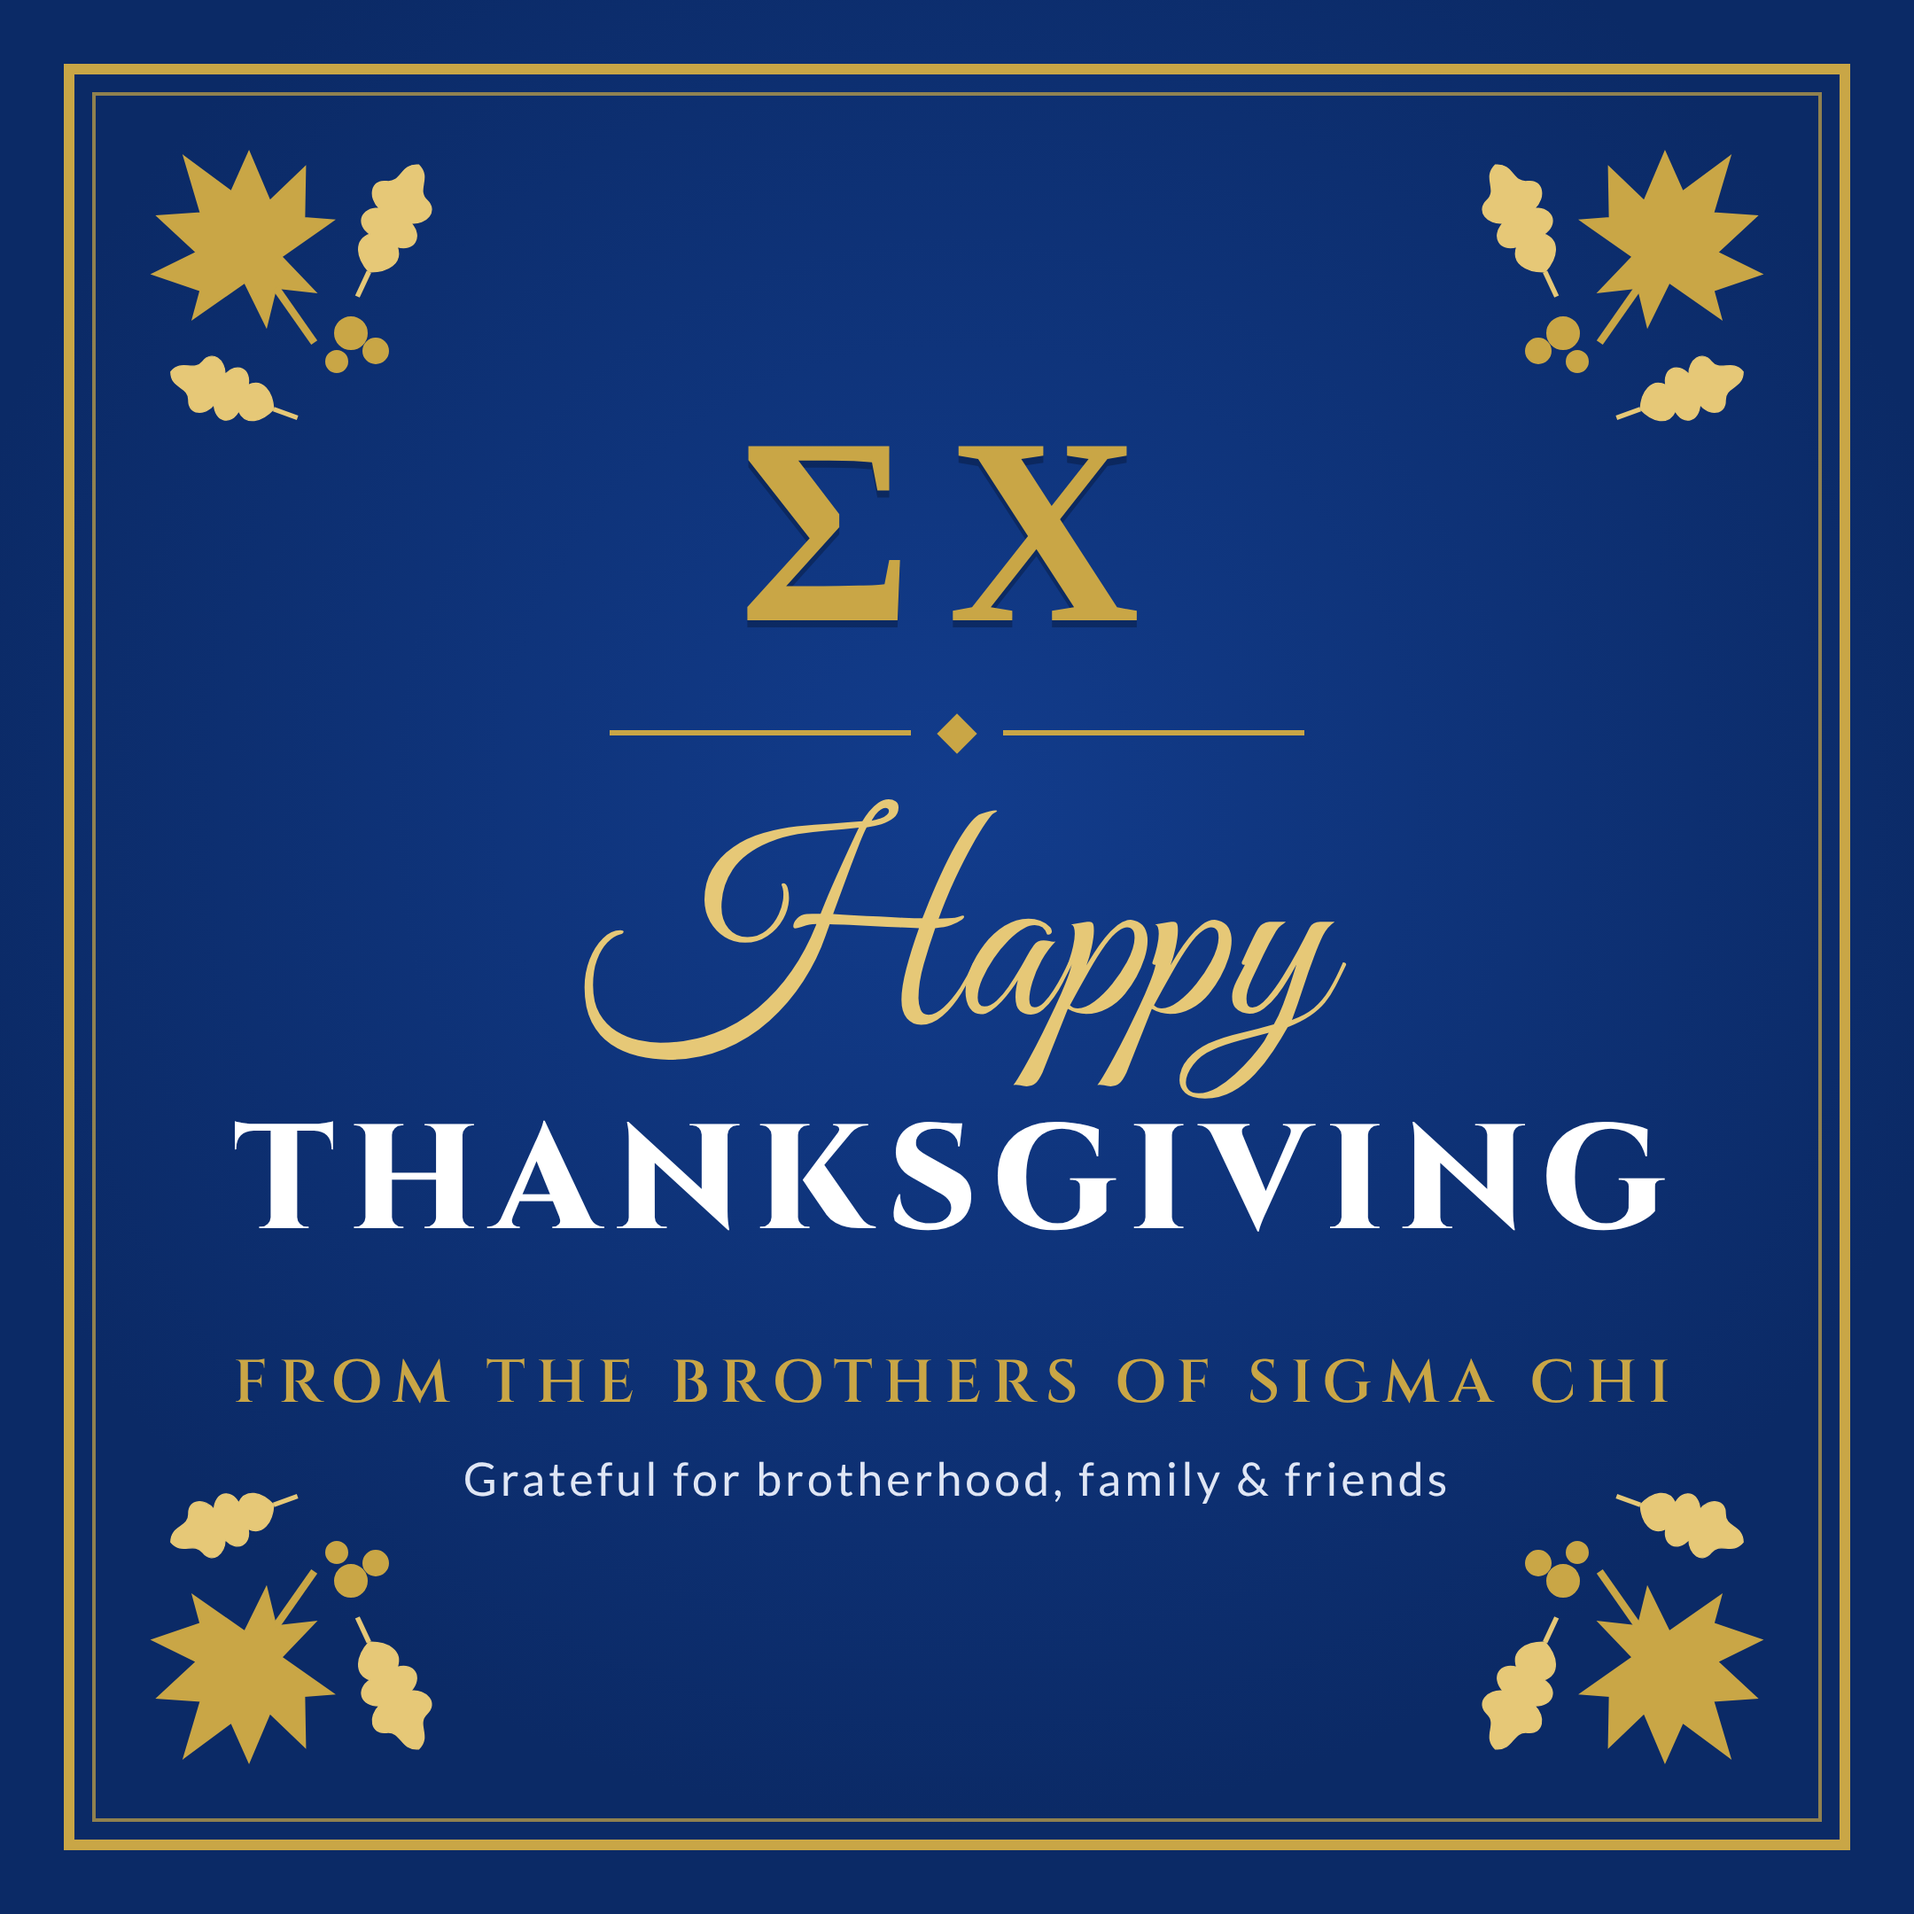
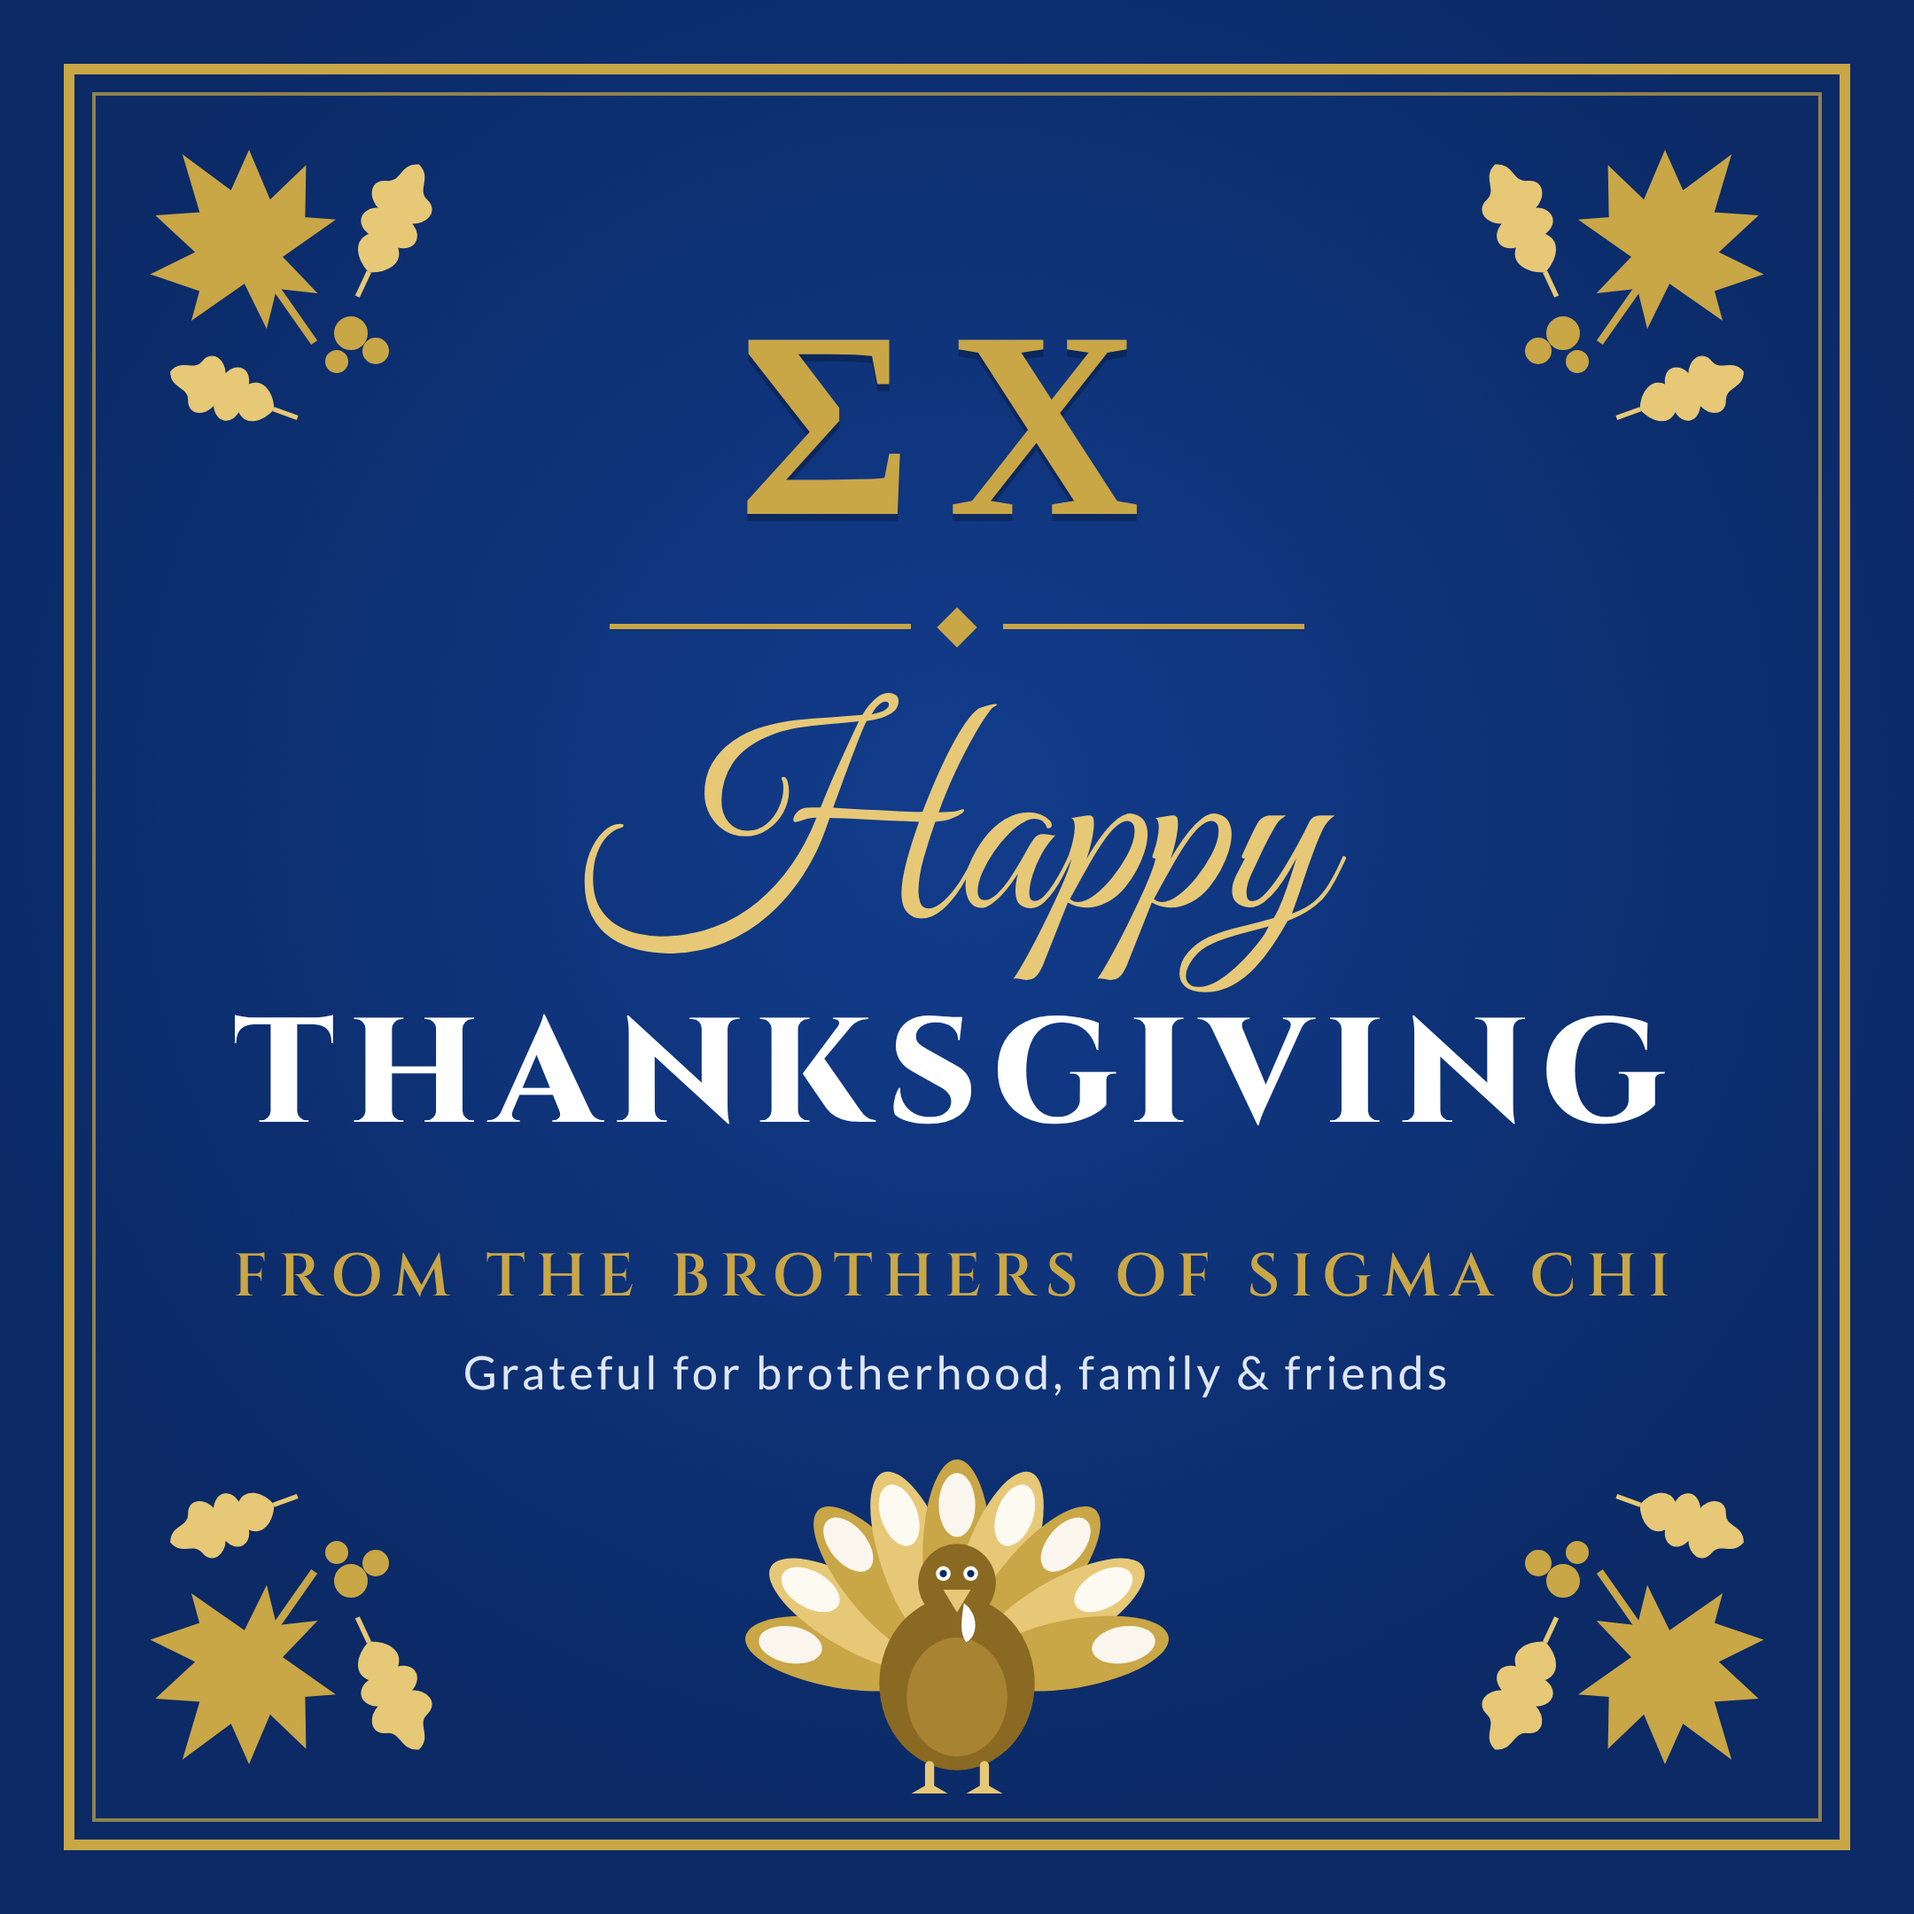
Add turkey to Thanksgiving post
Claude-Session: https://claude.ai/code/session_017HSKiQqvArLoh59CgCQpqT

diff --git a/thanksgiving/post.html b/thanksgiving/post.html
@@ -6,7 +6,7 @@
 body{width:1080px;height:1080px;background:radial-gradient(circle at 50% 42%,var(--blue2),var(--blue) 70%);font-family:Lato,sans-serif;color:var(--gold);overflow:hidden;position:relative}
 .frame{position:absolute;inset:36px;border:6px solid var(--gold);}
 .frame2{position:absolute;inset:52px;border:2px solid var(--gold);opacity:.7}
-.c{position:absolute;inset:0;display:flex;flex-direction:column;align-items:center;justify-content:center;text-align:center}
+.c{position:absolute;inset:0 0 120px 0;display:flex;flex-direction:column;align-items:center;justify-content:center;text-align:center}
 .greek{font-family:Cinzel,serif;font-weight:800;font-size:150px;letter-spacing:20px;color:var(--gold);line-height:1;text-shadow:0 4px 0 rgba(0,0,0,.25)}
 .rule{display:flex;align-items:center;gap:18px;margin:26px 0 34px}
 .rule span{width:170px;height:3px;background:var(--gold)}
@@ -17,7 +17,25 @@ body{width:1080px;height:1080px;background:radial-gradient(circle at 50% 42%,var
 .msg{font-size:26px;letter-spacing:2px;color:#dfe6f5;margin-top:14px}
 svg.leaf{position:absolute}
 </style></head><body>
-<div class="frame"></div><div class="frame2"></div>
+<div class="frame"></div>
+<svg style="position:absolute;left:50%;top:818px;transform:translateX(-50%)" width="245" height="194" viewBox="-95 -80 190 150">
+ <g id="fan"></g>
+ <ellipse cx="0" cy="22" rx="34" ry="38" fill="#8A6A22"/>
+ <ellipse cx="0" cy="28" rx="22" ry="26" fill="#A88332"/>
+ <circle cx="0" cy="-22" r="17" fill="#8A6A22"/>
+ <circle cx="-6" cy="-26" r="3.2" fill="#fff"/><circle cx="6" cy="-26" r="3.2" fill="#fff"/>
+ <circle cx="-6" cy="-26" r="1.6" fill="#0B2A66"/><circle cx="6" cy="-26" r="1.6" fill="#0B2A66"/>
+ <path d="M-6,-19 L6,-19 L0,-9 Z" fill="#E6C877"/>
+ <path d="M3,-13 C10,-8 9,2 4,4 C1,0 2,-6 3,-13Z" fill="#fff"/>
+ <path d="M-12,58 L-12,68 M-12,68 l-7,4 M-12,68 l0,6 M-12,68 l7,4 M12,58 L12,68 M12,68 l-7,4 M12,68 l0,6 M12,68 l7,4" stroke="#E6C877" stroke-width="4" stroke-linecap="round" fill="none"/>
+</svg>
+<script>
+(()=>{const f=document.getElementById('fan');let h='';const n=9;
+for(let i=0;i<n;i++){const a=-80+i*160/(n-1);const c=i%2?'#E6C877':'#C9A646';
+h+=`<g transform="translate(0,18) rotate(${a})"><ellipse cx="0" cy="-52" rx="15" ry="42" fill="${c}"/><ellipse cx="0" cy="-74" rx="8" ry="14" fill="#fff" opacity=".9"/></g>`;}
+f.innerHTML=h;})();
+</script>
+<div class="frame2"></div>
 <svg class="leaf" style="left:70px;top:70px" width="230" height="230" viewBox="0 0 230 230" id="L"></svg>
 <svg class="leaf" style="right:70px;top:70px;transform:scaleX(-1)" width="230" height="230" viewBox="0 0 230 230"></svg>
 <svg class="leaf" style="left:70px;bottom:70px;transform:scaleY(-1)" width="230" height="230" viewBox="0 0 230 230"></svg>
